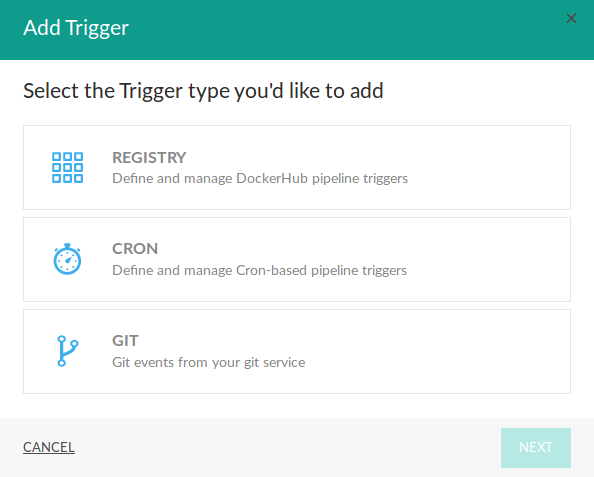
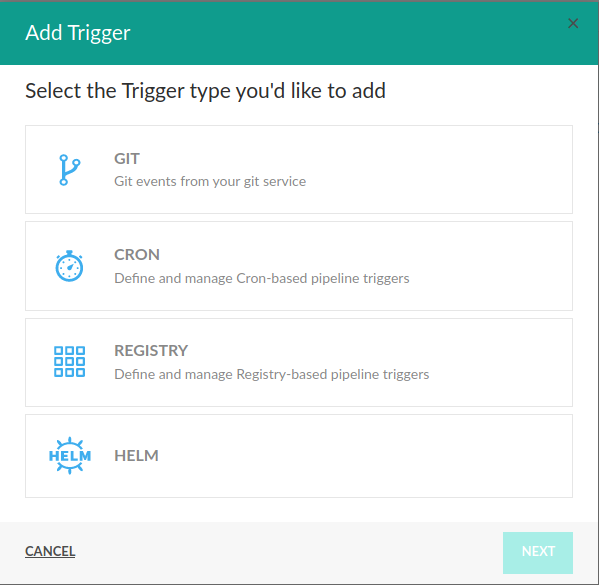
Adding helm trigger documentation

diff --git a/_docs/configure-ci-cd-pipeline/triggers/helm-triggers.md b/_docs/configure-ci-cd-pipeline/triggers/helm-triggers.md
@@ -1,0 +1,54 @@
+---
+title: "Helm Trigger"
+description: ""
+group: configure-ci-cd-pipeline
+sub_group: triggers
+toc: true
+---
+
+## Manage Helm Triggers with Codefresh UI
+
+It is possible to define and manage Helm pipeline triggers with the Codefresh UI.
+
+### Create a new Helm Trigger
+
+To add a new Helm trigger, navigate to Codefresh Pipeline *Configuration* view and expand *Triggers* section. Press the `Add Trigger` button and select the `Helm` trigger type to add.
+
+{% include image.html
+lightbox="true"
+file="/images/pipeline/triggers/add-trigger-dialog.png"
+url="/images/pipeline/triggers/add-trigger-dialog.png"
+alt="Adding new Trigger dialog"
+max-width="60%"
+%}
+
+Fill the following information:
+* *Helm Provider* - select `JFrog Artifactory`.
+* *Repository* - put JFrog name of the Artifactory repository.
+* *Chart Name* - put name of the chart in the Artifactory repository.
+* *Action* - select `Push Chart` action.
+
+{% include image.html
+lightbox="true"
+file="/images/pipeline/triggers/jfrog/configure-artifactory.png"
+url="/images/pipeline/triggers/jfrog/configure-artifactory.png"
+alt="Helm Artifactory settings"
+max-width="50%"
+%}
+
+Click next and a new Dialog will appear that shows you the Codefresh webhook URL. Copy it to your clipboard. 
+
+
+{% include image.html
+lightbox="true"
+file="/images/pipeline/triggers/jfrog/view-trigger-dialog.png"
+url="/images/pipeline/triggers/jfrog/view-trigger-dialog.png"
+alt="Codefresh webhook URL"
+max-width="50%"
+%}
+
+Now we must set JFrog Artifactory to call this URL when an event takes place. This can either be done through the [JFrog Artifactory webhook plugin](https://codefresh.io/docs/docs/configure-ci-cd-pipeline/triggers/jfrog-triggers/) or through [setting up Webhooks](https://www.jfrog.com/confluence/display/JFROG/Webhooks) in the UI.
+
+### Triggering a Codefresh pipeline with an Artifactory push
+
+Now, every time you push a Helm chart to the selected Artifactory repository, manually, with Codefresh or any other CI/CD tool, Codefresh will trigger execution of all pipelines associated with that Artifactory Push trigger event.

diff --git a/_docs/getting-started/helm-quick-start-guide.md b/_docs/getting-started/helm-quick-start-guide.md
@@ -50,7 +50,7 @@ It is assumed that:
   - You have already [added your Kubernetes cluster]({{site.baseurl}}/docs/deploy-to-kubernetes/adding-non-gke-kubernetes-cluster/) into Codefresh
   - You have connected at least one [Docker registry]({{site.baseurl}}/docs/docker-registries/external-docker-registries/) in your Codefresh account
   - You have already an application that has a Dockerfile and a Helm chart 
-  - Your cluster has pull access to your default Docker registry registry. If not read the [previous guide]({{site.baseurl}}/docs/getting-started/deployment-to-kubernetes-quick-start-guide/#deploying-a-docker-image-to-kubernetes-manually) or look at the [documentation]({{site.baseurl}}/docs/deploy-to-kubernetes/deploy-to-kubernetes/create-image-pull-secret/)
+  - Your cluster has pull access to your default Docker registry. If not read the [previous guide]({{site.baseurl}}/docs/getting-started/deployment-to-kubernetes-quick-start-guide/#deploying-a-docker-image-to-kubernetes-manually) or look at the [documentation]({{site.baseurl}}/docs/deploy-to-kubernetes/deploy-to-kubernetes/create-image-pull-secret/)
 
 To verify that your cluster is setup for Helm select the *Helm Releases* item from the left sidebar. You should see the Helm releases in your cluster or an empty screen if you just started.
 

diff --git a/_docs/whats-new/whats-new.md b/_docs/whats-new/whats-new.md
@@ -10,6 +10,7 @@ Recent Codefresh updates:
 
 ### October 2020
 
+- Setting-up Helm Triggers in your Codefresh pipeline with the Codefresh UI - [documentation]({{site.baseurl}}/docs/configure-ci-cd-pipeline/triggers/helm-triggers/)
 - Using the GitHub Container registry as Docker registry - [documentation]({{site.baseurl}}/docs/integrations/docker-registries/github-container-registry/)
 - Simplified Git operations with the App Proxy for the Codefresh runner - [documentation]({{site.baseurl}}/docs/administration/codefresh-runner/#optional-installation-of-the-app-proxy)
 
